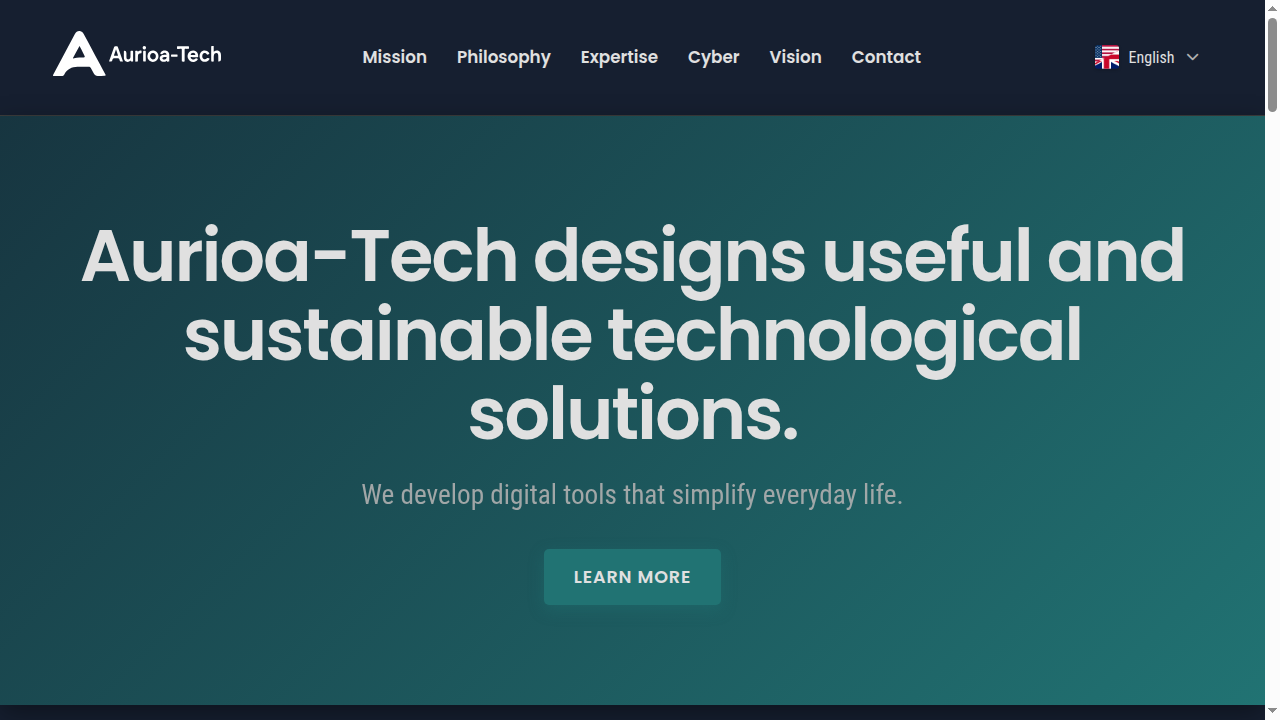
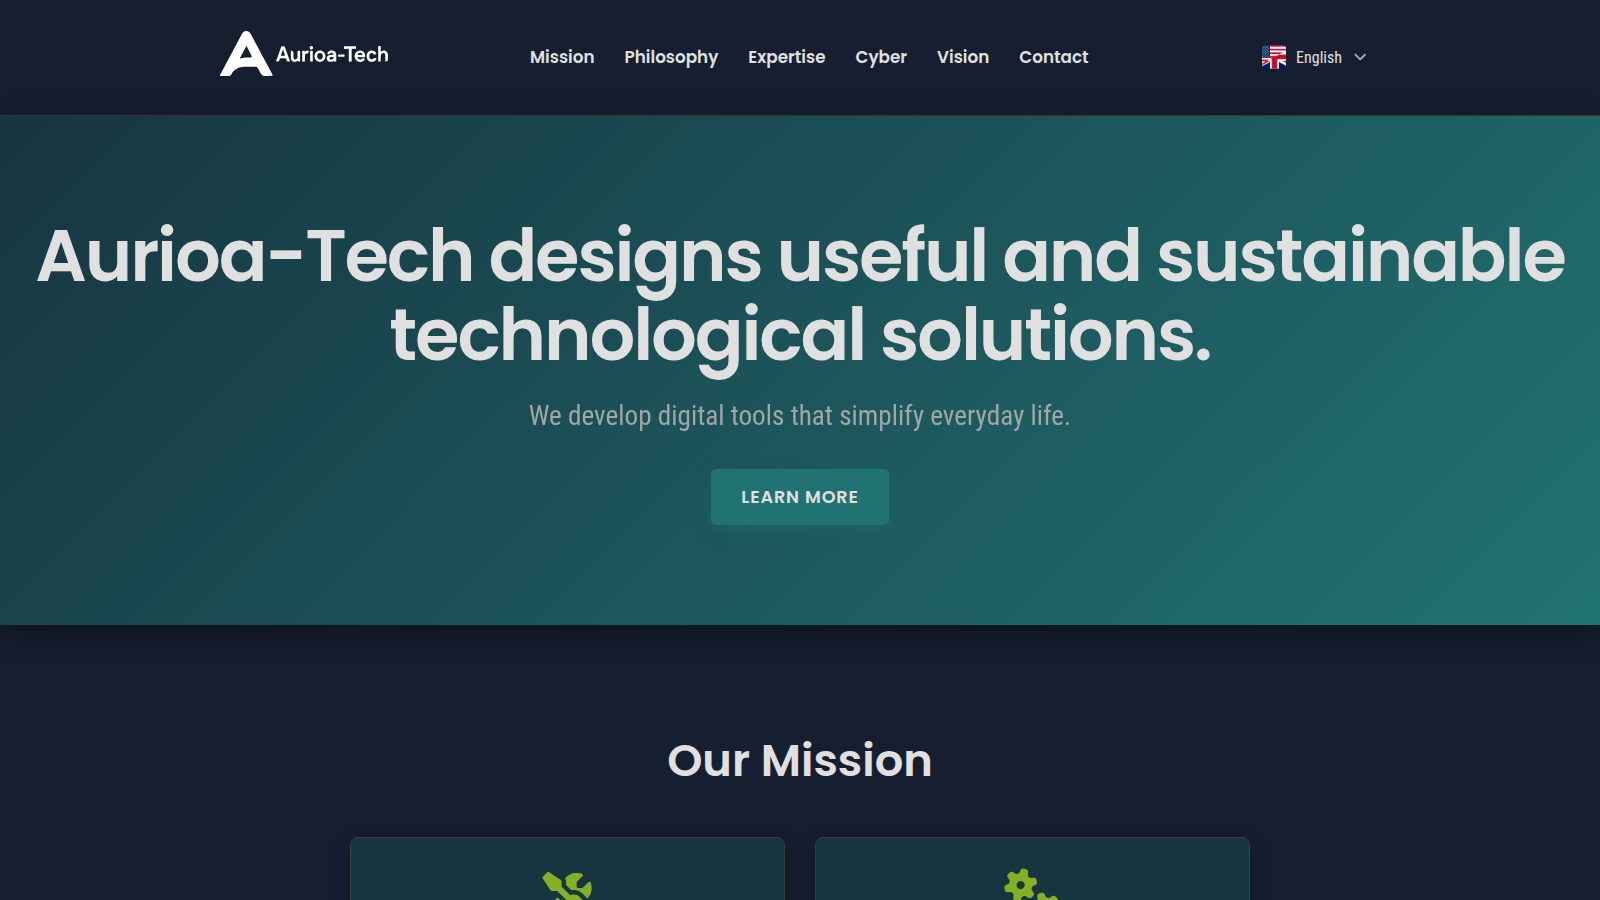
chore: update project screenshots (16:9, no scrollbar)
- Retake screenshots for 6 projects without scrollbar
- Convert Vaalnor.jpg and SoulsGathering.jpg to PNG
- Fix aurioa-tech URL (.ch → .com)

diff --git a/app/database/seeders/project_seeder.ts b/app/database/seeders/project_seeder.ts
@@ -86,7 +86,7 @@ export default class extends BaseSeeder {
       },
       {
         slug: 'vaalnor',
-        images: '/works/Vaalnor.jpg',
+        images: '/works/Vaalnor.png',
         url: 'https://vaalnor.com',
         isPublished: true,
         order: 5,
@@ -108,7 +108,7 @@ export default class extends BaseSeeder {
       },
       {
         slug: 'souls-gathering',
-        images: '/works/SoulsGathering.jpg',
+        images: '/works/SoulsGathering.png',
         url: 'https://soulsgathering.com',
         isPublished: true,
         order: 6,
@@ -141,7 +141,7 @@ export default class extends BaseSeeder {
       {
         slug: 'aurioa-tech',
         images: '/works/aurioa-tech.png',
-        url: 'https://aurioa-tech.ch',
+        url: 'https://aurioa-tech.com',
         isPublished: true,
         order: 7,
         category: 'work' as const,
